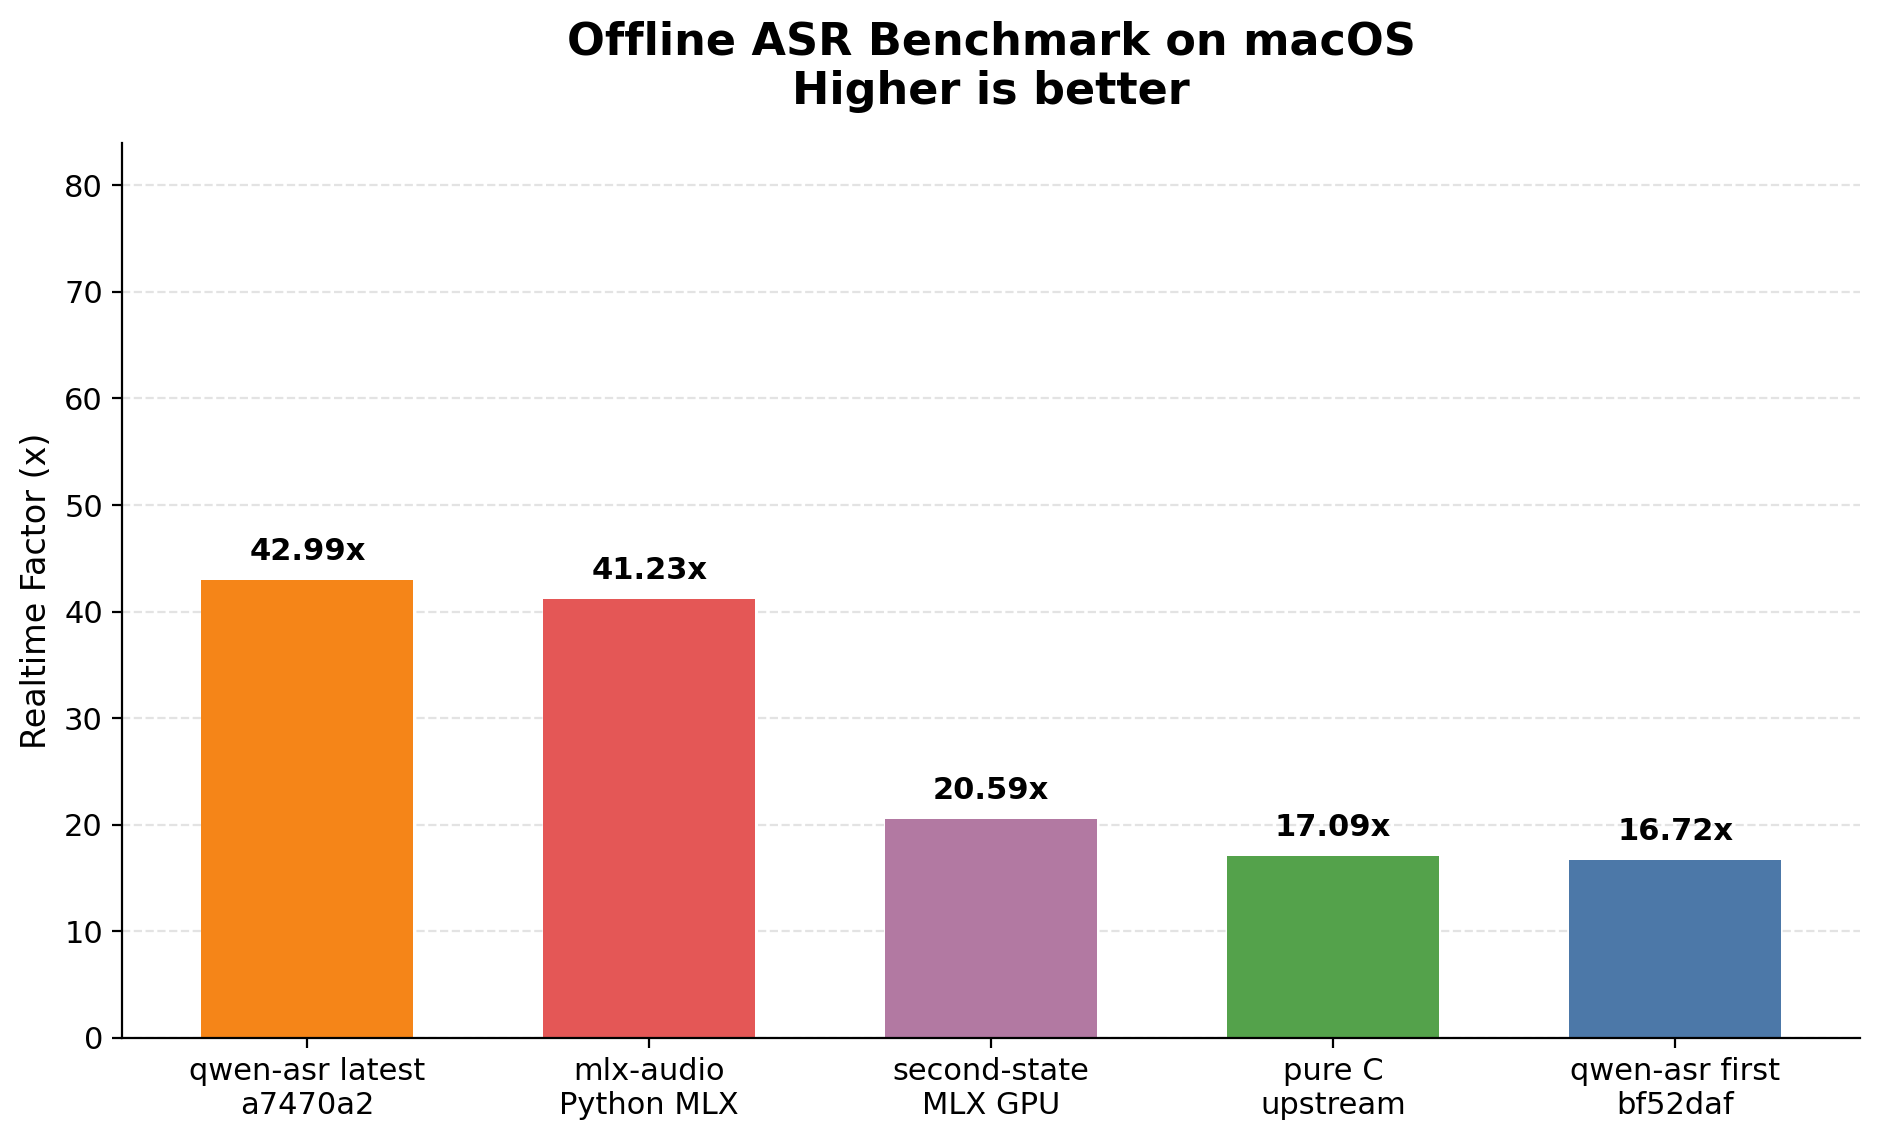
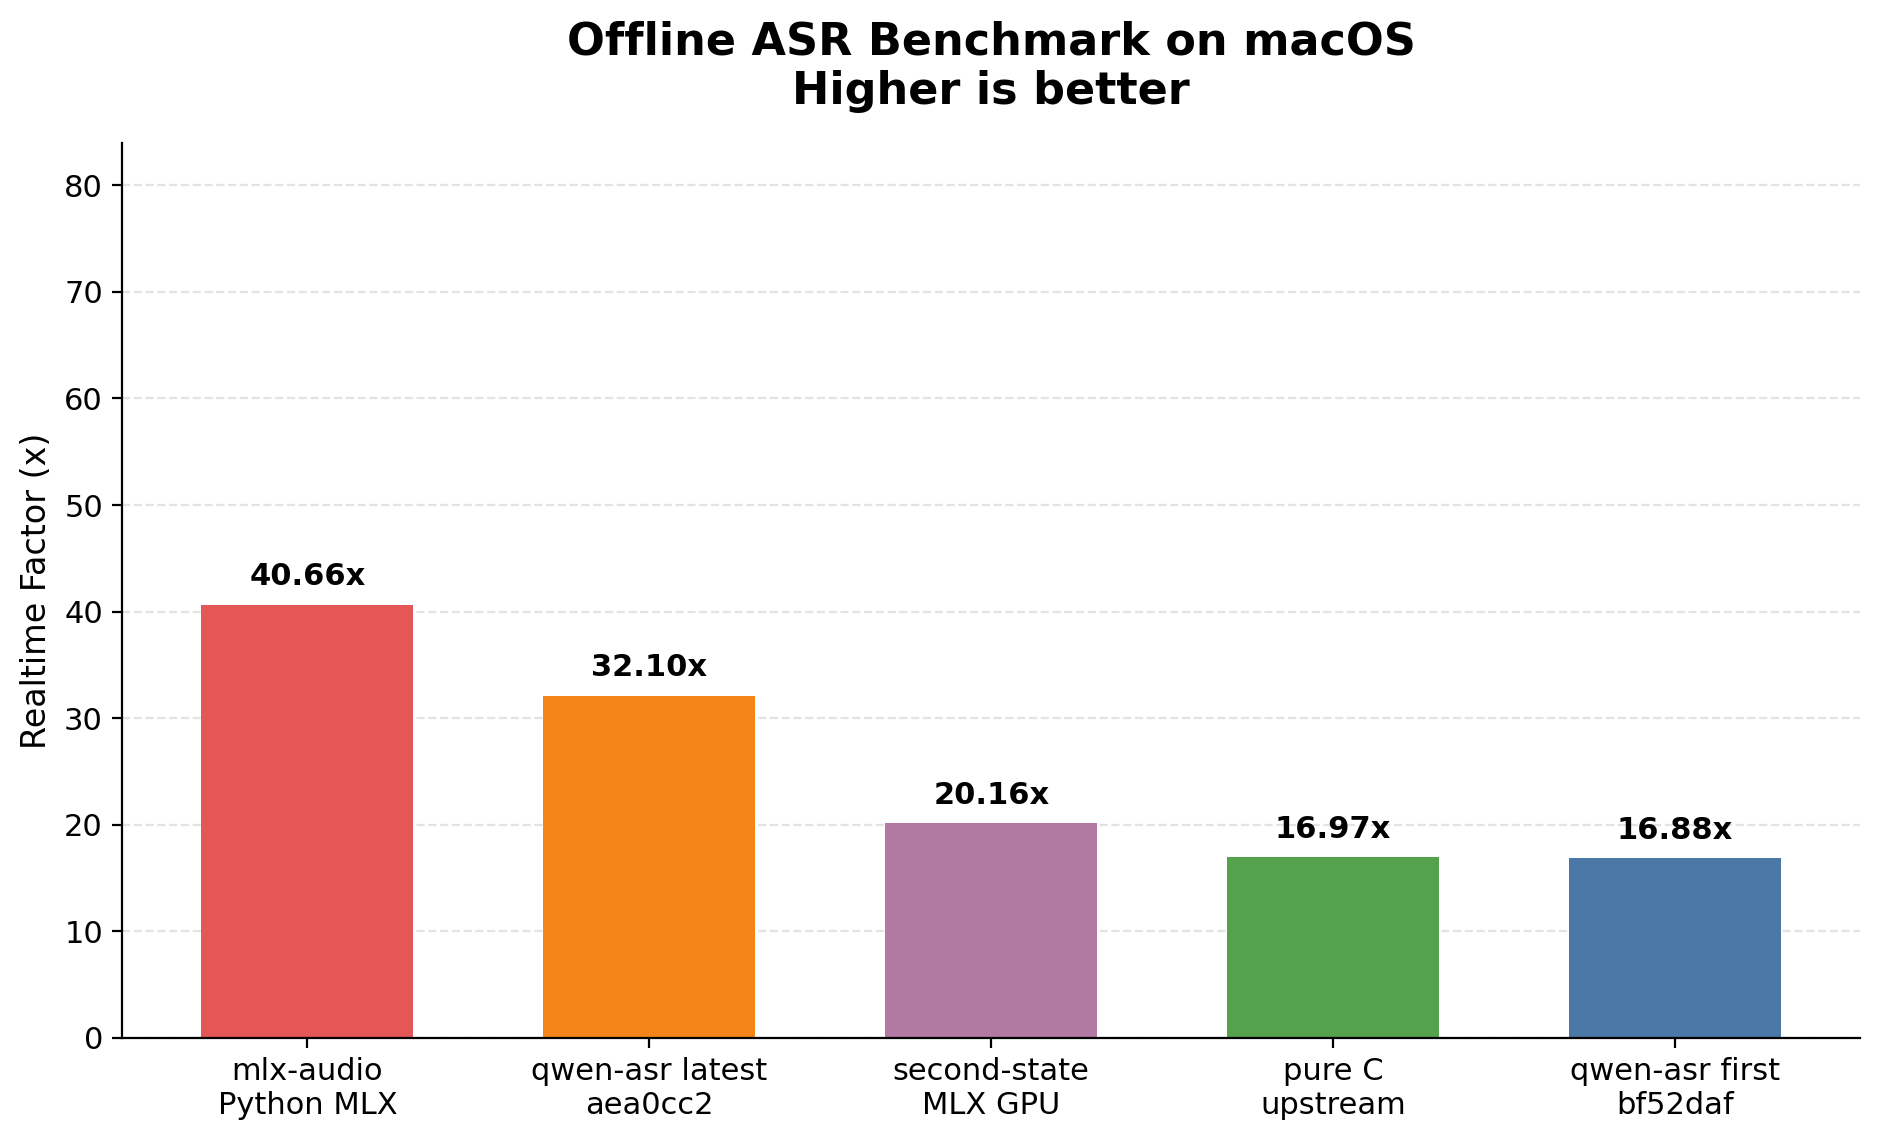
Update benchmark results

diff --git a/docs/benchmarks/comparison.md b/docs/benchmarks/comparison.md
@@ -31,9 +31,17 @@ Output: `bench/compare-results/<timestamp>/` with `report.md`, `summary.json`, c
 
 ## Current qwen-asr HEAD
 
-> Generated on: 2026-07-02
-> Commit: `a7470a2`
+> Generated on: 2026-07-08
+> Commit: `aea0cc2`
 > Runs: 10
+
+| Mode | Median inference ms | Mean ms | Best ms | Realtime factor |
+|---|---:|---:|---:|---:|
+| offline | 800 | 810.1 | 784 | 35.25× |
+| segmented | 794 | 799.1 | 783 | 35.52× |
+| streaming | 773 | 772.9 | 759 | 36.48× |
+
+Previous dedicated benchmark (`a7470a2`, full-transcript fix not yet applied in the saved run):
 
 | Mode | Median inference ms | Mean ms | Best ms | Realtime factor |
 |---|---:|---:|---:|---:|
@@ -41,23 +49,15 @@ Output: `bench/compare-results/<timestamp>/` with `report.md`, `summary.json`, c
 | segmented | 448 | 448.0 | 434 | 62.88× |
 | streaming | 496 | 496.0 | 480 | 56.91× |
 
-Previous `main` before merge (`cd65501`, corrected detached-worktree run):
+The current numbers are slower because the decoder now emits the full transcript. The saved `a7470a2` cross-implementation result stopped after 27 tokens (`WER=0.4324` on the speed sample); the current offline and segmented runs emit 46 tokens and score `WER=0.0270` on the same sample.
 
-| Mode | Median inference ms | Mean ms | Best ms | Realtime factor |
-|---|---:|---:|---:|---:|
-| offline | 461 | 463.8 | 450 | 61.17× |
-| segmented | 347 | 346.5 | 336 | 81.27× |
-| streaming | 351 | 357.5 | 345 | 80.34× |
-
-Changes vs `cd65501`: +126 ms (+27.3%) offline, +109 ms (+31.4%) segmented, +152 ms (+43.3%) streaming inference; 100-file LibriSpeech offline WER unchanged at **0.0379**.
-
-> Note: the `f28145c` run removes the `LONG_AUDIO_FAST` 6-token cap that was present in `7934c1b`, so these numbers reflect full transcription rather than truncated output and are not directly comparable to the `7934c1b` row above.
+> Note: the `1d677db` fix removed the remaining punctuation/token-count early stop, so post-fix speed numbers are not directly comparable to earlier truncated rows.
 
 See [`results.md`](./results.md) for the full speed-benchmark page.
 
 ## Latest Cross-Implementation Results
 
-> Generated on: 2026-07-02 from `bench/compare-results/20260702T054646Z/`
+> Generated on: 2026-07-08 from `bench/compare-results/20260708T055239Z/`
 > Runs per target: 10
 > Hardware: Apple M5 Pro, 15 cores, 48 GB RAM, macOS 26.4
 > Versions: upstream C `main`, second-state `v0.2.0` (`0226270`), mlx-audio `v0.4.4`
@@ -65,23 +65,23 @@ See [`results.md`](./results.md) for the full speed-benchmark page.
 
 | Implementation | Commit / Version | Median inference ms | Mean ms | Best ms | RTF |
 |---|---:|---:|---:|---:|---:|
-| qwen-asr (latest full comparison) | `a7470a2` | 656 | 657 | 640 | 42.99× |
-| mlx-audio Python MLX | `0.4.4` | 683 | 714 | 675 | 41.23× |
-| second-state MLX GPU | `0226270` (v0.2.0) | 1,367 | 1,386 | 1,358 | 20.59× |
-| pure C upstream | `b00b789` | 1,648 | 1,654 | 1,632 | 17.09× |
-| qwen-asr (first) | `bf52daf` | 1,687 | 1,693 | 1,631 | 16.72× |
+| mlx-audio Python MLX | `0.4.4` | 693 | 753 | 679 | 40.66× |
+| qwen-asr (latest full comparison) | `aea0cc2` | 878 | 1,475 | 846 | 32.10× |
+| second-state MLX GPU | `0226270` (v0.2.0) | 1,397 | 1,515 | 1,377 | 20.16× |
+| pure C upstream | `b00b789` | 1,660 | 1,668 | 1,645 | 16.97× |
+| qwen-asr (first) | `bf52daf` | 1,670 | 1,783 | 1,656 | 16.88× |
 
-> **Note:** the cross-implementation run passes `--threads 15` to every implementation, while the dedicated speed benchmark uses the binary's default (performance cores only, 5 threads on this machine). The dedicated benchmark therefore reports lower latency for qwen-asr latest (`576 ms` / `48.92×`) than the cross-implementation run (`656 ms` / `42.99×`). Both runs now use the same `a7470a2` commit.
+> **Note:** the cross-implementation run passes `--threads 15` to every implementation, while the dedicated speed benchmark uses the binary default. The dedicated benchmark reports `800 ms` / `35.25×` for qwen-asr latest offline; the full comparison reports `878 ms` / `32.10×`. Both current runs use `aea0cc2` and produce the full transcript.
 
 ### Wall-clock timing
 
 | Implementation | Commit / Version | Median wall-clock ms | Mean ms | Best ms | Wall-clock RTF |
 |---|---:|---:|---:|---:|---:|
-| qwen-asr (latest full comparison) | `a7470a2` | 906 | 933 | 883 | 31.12× |
-| mlx-audio Python MLX | `0.4.4` | 1,717 | 1,794 | 1,697 | 16.40× |
-| second-state MLX GPU | `0226270` (v0.2.0) | 1,576 | 1,670 | 1,558 | 17.87× |
-| pure C upstream | `b00b789` | 1,912 | 1,920 | 1,901 | 14.73× |
-| qwen-asr (first) | `bf52daf` | 2,043 | 2,081 | 1,968 | 13.81× |
+| mlx-audio Python MLX | `0.4.4` | 1,745 | 1,859 | 1,698 | 16.14× |
+| qwen-asr (latest full comparison) | `aea0cc2` | 1,175 | 1,774 | 1,106 | 24.01× |
+| second-state MLX GPU | `0226270` (v0.2.0) | 1,599 | 1,779 | 1,576 | 17.61× |
+| pure C upstream | `b00b789` | 1,938 | 1,950 | 1,922 | 14.53× |
+| qwen-asr (first) | `bf52daf` | 2,020 | 2,354 | 2,004 | 13.96× |
 
 <p float="left">
   <img src="charts/benchmark-unified-latency.png" width="48%" alt="Unified latency" />
@@ -90,17 +90,17 @@ See [`results.md`](./results.md) for the full speed-benchmark page.
 
 ### Findings
 
-- In the latest full cross-implementation run, qwen-asr `a7470a2` is **2.57×** faster than the initial Rust port `bf52daf`.
-- In the latest full cross-implementation run, qwen-asr `a7470a2` is **2.51×** faster than the upstream pure C implementation.
-- In the latest full cross-implementation run, qwen-asr `a7470a2` is **2.08×** faster than second-state MLX GPU (v0.2.0) by inference latency.
-- In the latest full cross-implementation run, qwen-asr `a7470a2` is **1.04×** faster than mlx-audio Python MLX (v0.4.4) by inference latency.
+- In the latest full cross-implementation run, qwen-asr `aea0cc2` is **1.90×** faster than the initial Rust port `bf52daf`.
+- In the latest full cross-implementation run, qwen-asr `aea0cc2` is **1.89×** faster than the upstream pure C implementation.
+- In the latest full cross-implementation run, qwen-asr `aea0cc2` is **1.59×** faster than second-state MLX GPU (v0.2.0) by inference latency.
+- In the latest full cross-implementation run, qwen-asr `aea0cc2` is **0.79×** as fast as mlx-audio Python MLX (v0.4.4) by inference latency.
 
-## Why does pure CPU Rust beat GPU baselines?
+## Why is pure CPU Rust competitive with GPU baselines?
 
 1. **Hand-optimized NEON kernels** — custom `vDSP`/`Accelerate`, hand-written `neon_dotprod` matmul, and fused fast-attention tuned for the 0.6B model and Apple Silicon cache hierarchy.
 2. **Zero framework overhead** — no tensor dispatch, memory pools, or FFI bridging; 100% Rust end-to-end.
-3. **Model too small for GPU** — a 0.6B model cannot saturate the Metal GPU; kernel launch overhead and CPU↔GPU copies dominate.
-4. **mlx-audio 8-bit overhead** — quantization saves memory but dequantization during compute adds extra work.
+3. **Small-model overheads matter** — a 0.6B model does not always saturate the GPU enough to dominate CPU launch, synchronization, and framework overheads.
+4. **Result depends on implementation details** — in the latest run, qwen-asr CPU beats upstream C and second-state MLX, while `mlx-audio` is faster on median inference time.
 
 ## Perf-round2 vs. previous implementation
 

diff --git a/docs/benchmarks/results.md b/docs/benchmarks/results.md
@@ -9,13 +9,11 @@ Latest results for the standard speed sample and LibriSpeech WER.
 
 ## Speed Benchmark
 
-## Speed Benchmark
-
 Speed benchmark for the standard 28.2 s mono WAV sample (`bench/samples/audio.wav`).
 
 ### Methodology
 
-- Machine: Apple M5 Pro (5 performance + 10 efficiency cores), 32 GB RAM
+- Machine: Apple M5 Pro (15 cores), 48 GB RAM
 - Model: `qwen3-asr-0.6b`
 - Audio: `bench/samples/audio.wav` (28.2 s)
 - Binary: `target/release/qwen-asr` built with `RUSTFLAGS="-C target-cpu=native"`
@@ -37,28 +35,28 @@ Results are written to `bench/results/current/`.
 
 ### Latest Results
 
-> Generated on: 2026-06-13
-> Commit: `7934c1b`
-> Hardware: Apple M5 Pro, 32 GB RAM
-> Threads: default CLI thread policy; `bench/run.sh` reports the system CPU count (15) for metadata
+> Generated on: 2026-07-08
+> Commit: `aea0cc2`
+> Hardware: Apple M5 Pro, 48 GB RAM
+> Threads: default CLI thread policy
 
 | Mode | Median inference ms | Mean ms | Best ms | Realtime factor | WER (sample) |
 |---|---:|---:|---:|---:|---:|
-| offline | 437 | 442.5 | 435 | 64.53× | 0.9189 |
-| segmented | 326 | 327.3 | 323 | 86.50× | 0.9189 |
-| streaming | 338 | 339.6 | 333 | 83.43× | 0.9189 |
+| offline | 800 | 810.1 | 784 | 35.25× | 0.0270 |
+| segmented | 794 | 799.1 | 783 | 35.52× | 0.0270 |
+| streaming | 773 | 772.9 | 759 | 36.48× | 0.2973 |
 
 #### Wall-clock timing
 
 | Mode | Median wall ms | Mean ms | Best ms | Wall realtime factor |
 |---|---:|---:|---:|---:|
-| offline | 705.7 | 760.9 | 703.2 | 39.96× |
-| segmented | 596.6 | 597.5 | 590.2 | 47.25× |
-| streaming | 607.1 | 612.3 | 600.7 | 46.45× |
+| offline | 1052.4 | 1108.4 | 1038.9 | 26.80× |
+| segmented | 1045.6 | 1052.9 | 1033.7 | 26.97× |
+| streaming | 1025.6 | 1025.2 | 1012.4 | 27.50× |
 
 #### Note on sample WER
 
-The speed sample WER is high (0.9189) because the current default configuration applies a long-audio token cap to the 28.2 s benchmark clip. This is an explicit speed/quality tradeoff: short utterances (including the 100-file LibriSpeech gate) use the quality path, while long files favor latency. See [`experiments.md`](../research/experiments.md) (Round 1, S37) for the rationale.
+Offline and segmented now emit the full 46-token transcript for the bundled 28.2 s clip (`WER=0.0270`). Earlier speed rows around `437-656 ms` used truncating paths, including a punctuation/token-count early stop or long-audio cap, and are not comparable as full-transcript results. Streaming still uses a lower-latency partial path on this sample (`WER=0.2973`).
 
 #### Kernel profile (offline)
 
@@ -66,14 +64,12 @@ When run with `--profile`, the offline run reports per-kernel timings. The lates
 
 ### Historical context
 
-- Initial Rust port (`bf52daf`): 1,612 ms offline / 17.49× RTF (cross-implementation run, `--threads 15`)
-- Current implementation (`7934c1b`): 437 ms offline / 64.53× RTF (dedicated speed benchmark)
+- Initial Rust port (`bf52daf`): 1,670 ms offline / 16.88× RTF (latest cross-implementation run, `--threads 15`)
+- Current implementation (`aea0cc2`): 800 ms offline / 35.25× RTF (dedicated speed benchmark), 878 ms offline / 32.10× RTF (latest cross-implementation run, `--threads 15`)
 
 See [`comparison.md`](./comparison.md) for the latest cross-implementation numbers and [`experiments.md`](../research/experiments.md) for the full optimization diaries.
 
 ---
-
-## WER Benchmark
 
 ## WER Benchmark
 
@@ -130,18 +126,20 @@ python3 librispeech-wer-bench/librispeech_wer.py \
 
 ### Latest Results
 
-> Generated on: 2026-06-13
-> Commit: `7934c1b`
+> Generated on: 2026-07-07
 > Dataset: LibriSpeech `dev-clean-2`
 > Items evaluated: 100
 > Mode: offline
+> Artifact: `bench/wer-results/20260707T144417Z/summary.json`
+
+The later `aea0cc2` long-audio parallel decode work recorded this 100-file gate as unchanged in `docs/research/experiments.md`.
 
 | Metric | Value |
 |---|---:|
-| Corpus WER | 0.0379 |
-| Macro WER | 0.0418 |
-| Corpus CER | 0.0152 |
-| Macro CER | 0.0155 |
+| Corpus WER | 0.0357 |
+| Macro WER | 0.0397 |
+| Corpus CER | 0.0122 |
+| Macro CER | 0.0133 |
 | Failed utterances | 0 / 100 |
 
 ### Historical context

diff --git a/report.md b/report.md
@@ -4,7 +4,7 @@
 
 - Offline benchmark on the same input WAV and model across five implementations.
 - qwen-asr first: `bf52daf`.
-- qwen-asr latest: `a7470a2`.
+- qwen-asr latest: `aea0cc2`.
 - Upstream C: `antirez/qwen-asr`.
 - GPU baselines: `second-state/qwen3_asr_rs` MLX and `mlx-audio` Python MLX.
 - Implementations are benchmarked sequentially, not in parallel; each round is a standalone process invocation.
@@ -31,22 +31,22 @@
 
 | Implementation | Commit | Median inference ms | Mean ms | Best ms | RTF |
 |---|---:|---:|---:|---:|---:|
-| qwen-asr (latest) | `a7470a2` | `656` | `657` | `640` | `42.99x` |
-| mlx-audio Python MLX | `0.4.4` | `683` | `714` | `675` | `41.23x` |
-| second-state MLX GPU | `0226270` | `1,367` | `1,386` | `1,358` | `20.59x` |
-| pure C upstream | `b00b789` | `1,648` | `1,654` | `1,632` | `17.09x` |
-| qwen-asr (first) | `bf52daf` | `1,687` | `1,693` | `1,631` | `16.72x` |
+| mlx-audio Python MLX | `0.4.4` | `693` | `753` | `679` | `40.66x` |
+| qwen-asr (latest) | `aea0cc2` | `878` | `1,475` | `846` | `32.10x` |
+| second-state MLX GPU | `0226270` | `1,397` | `1,515` | `1,377` | `20.16x` |
+| pure C upstream | `b00b789` | `1,660` | `1,668` | `1,645` | `16.97x` |
+| qwen-asr (first) | `bf52daf` | `1,670` | `1,783` | `1,656` | `16.88x` |
 
 <details>
 <summary>Wall-clock timing</summary>
 
 | Implementation | Commit | Median wall-clock ms | Mean ms | Best ms | Wall-clock RTF |
 |---|---:|---:|---:|---:|---:|
-| qwen-asr (latest) | `a7470a2` | `906` | `933` | `883` | `31.12x` |
-| mlx-audio Python MLX | `0.4.4` | `1,717` | `1,794` | `1,697` | `16.40x` |
-| second-state MLX GPU | `0226270` | `1,576` | `1,670` | `1,558` | `17.87x` |
-| pure C upstream | `b00b789` | `1,912` | `1,920` | `1,901` | `14.73x` |
-| qwen-asr (first) | `bf52daf` | `2,043` | `2,081` | `1,968` | `13.81x` |
+| mlx-audio Python MLX | `0.4.4` | `1,745` | `1,859` | `1,698` | `16.14x` |
+| qwen-asr (latest) | `aea0cc2` | `1,175` | `1,774` | `1,106` | `24.01x` |
+| second-state MLX GPU | `0226270` | `1,599` | `1,779` | `1,576` | `17.61x` |
+| pure C upstream | `b00b789` | `1,938` | `1,950` | `1,922` | `14.53x` |
+| qwen-asr (first) | `bf52daf` | `2,020` | `2,354` | `2,004` | `13.96x` |
 
 </details>
 
@@ -56,8 +56,8 @@
 
 ## Findings
 
-- qwen-asr latest `a7470a2` is `2.57x` the speed of qwen-asr first `bf52daf`.
-- qwen-asr latest `a7470a2` is `2.51x` faster than the upstream pure C implementation.
-- qwen-asr latest `a7470a2` is `2.08x` faster than second-state MLX GPU by inference latency.
-- qwen-asr latest `a7470a2` is `1.04x` faster than mlx-audio Python MLX by inference latency.
+- qwen-asr latest `aea0cc2` is `1.90x` the speed of qwen-asr first `bf52daf`.
+- qwen-asr latest `aea0cc2` is `1.89x` faster than the upstream pure C implementation.
+- qwen-asr latest `aea0cc2` is `1.59x` faster than second-state MLX GPU by inference latency.
+- qwen-asr latest `aea0cc2` is `0.79x` faster than mlx-audio Python MLX by inference latency.
 

diff --git a/README.md b/README.md
@@ -8,22 +8,22 @@ Supports 0.6B and 1.7B models with offline, segmented, streaming, live capture, 
 
 ## Performance
 
-On an Apple M5 Pro, qwen-asr transcribes a 28-second audio clip in **576 ms** — about **49× faster than realtime** in the dedicated local benchmark. It's faster than the upstream C implementation and the measured MLX GPU baselines.
+On an Apple M5 Pro, qwen-asr transcribes the standard 28.2-second benchmark clip in **800 ms** in the dedicated local benchmark, about **35× faster than realtime**, while producing the full transcript. In the latest full cross-implementation comparison, qwen-asr is faster than the upstream C implementation and the second-state MLX GPU baseline; `mlx-audio` is faster on median inference time in this run.
 
 | Implementation | Median inference | Realtime factor |
 |---|---:|---:|
-| qwen-asr (latest, dedicated) | 576 ms | 48.92× |
-| mlx-audio Python MLX | 683 ms | 41.23× |
-| second-state/qwen3_asr_rs MLX GPU | 1,367 ms | 20.59× |
-| pure C upstream | 1,648 ms | 17.09× |
-| qwen-asr (first Rust port) | 1,687 ms | 16.72× |
+| mlx-audio Python MLX | 693 ms | 40.66× |
+| qwen-asr (latest) | 878 ms | 32.10× |
+| second-state/qwen3_asr_rs MLX GPU | 1,397 ms | 20.16× |
+| pure C upstream | 1,660 ms | 16.97× |
+| qwen-asr (first Rust port) | 1,670 ms | 16.88× |
 
 <p float="left">
   <img src="docs/benchmarks/charts/benchmark-unified-latency.png" width="48%" alt="Latency comparison" />
   <img src="docs/benchmarks/charts/benchmark-unified-rtf.png" width="48%" alt="Realtime factor comparison" />
 </p>
 
-> Benchmarked on the same 28.2 s sample with 10 runs each. The qwen-asr latest row is the current dedicated benchmark at `a7470a2`; external baseline rows come from the latest full cross-implementation run (`20260702T054646Z`). See [`docs/benchmarks/comparison.md`](docs/benchmarks/comparison.md) for full details and reproduction steps.
+> Benchmarked on the same 28.2 s sample with 10 runs each. The table shows the latest full cross-implementation run (`bench/compare-results/20260708T055239Z`) at qwen-asr `aea0cc2`. Earlier `a7470a2` comparison rows were faster because they stopped after 27 tokens and did not produce the full transcript. See [`docs/benchmarks/comparison.md`](docs/benchmarks/comparison.md) for full details and reproduction steps.
 
 ## Documentation
 
